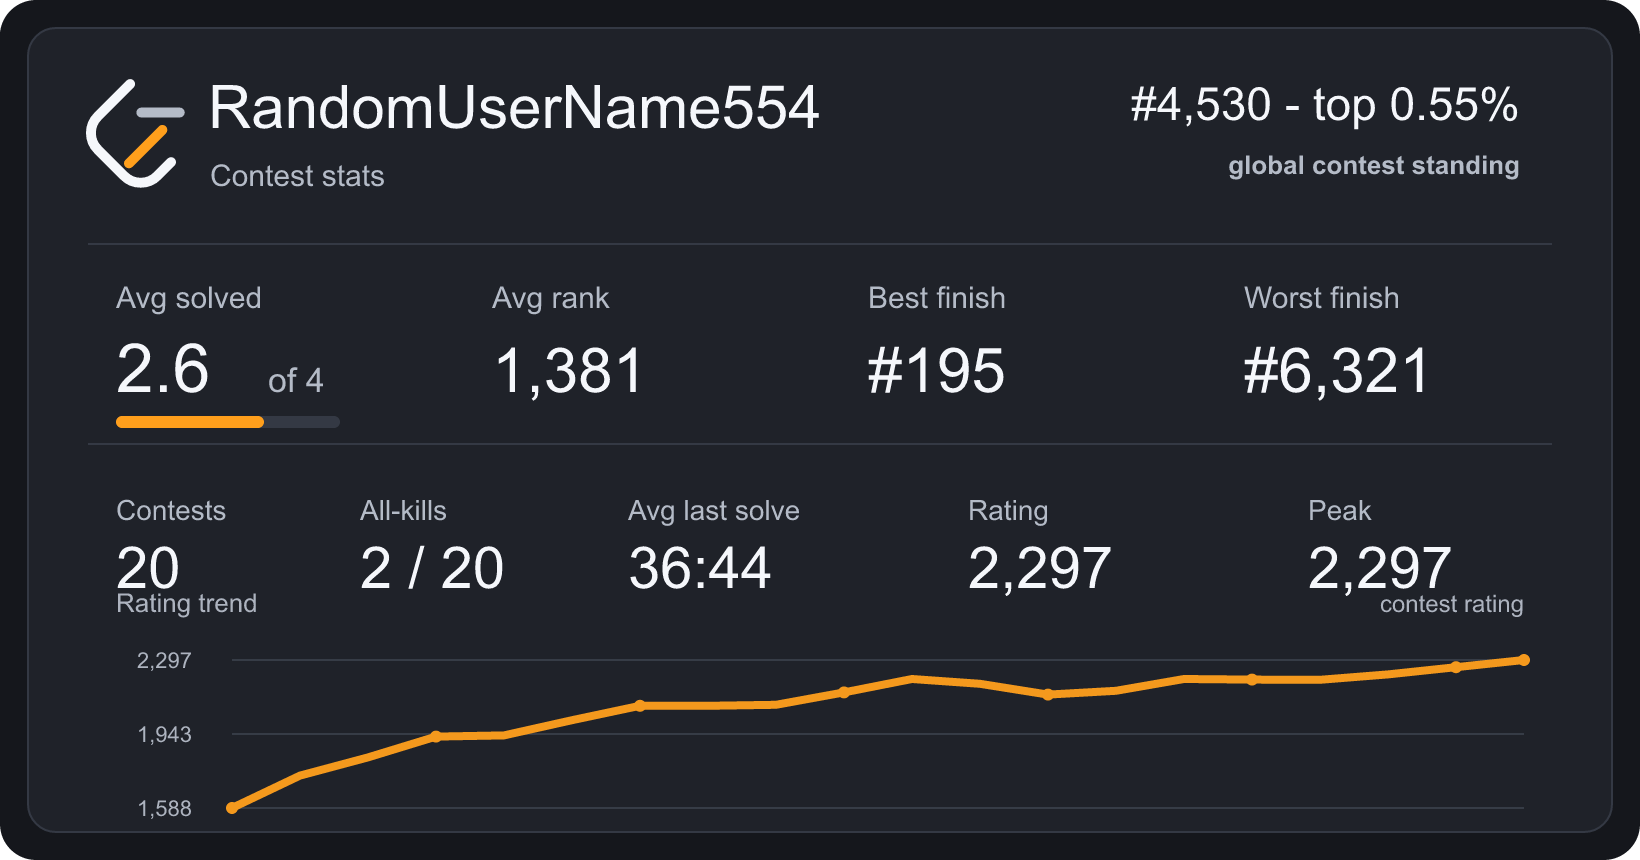
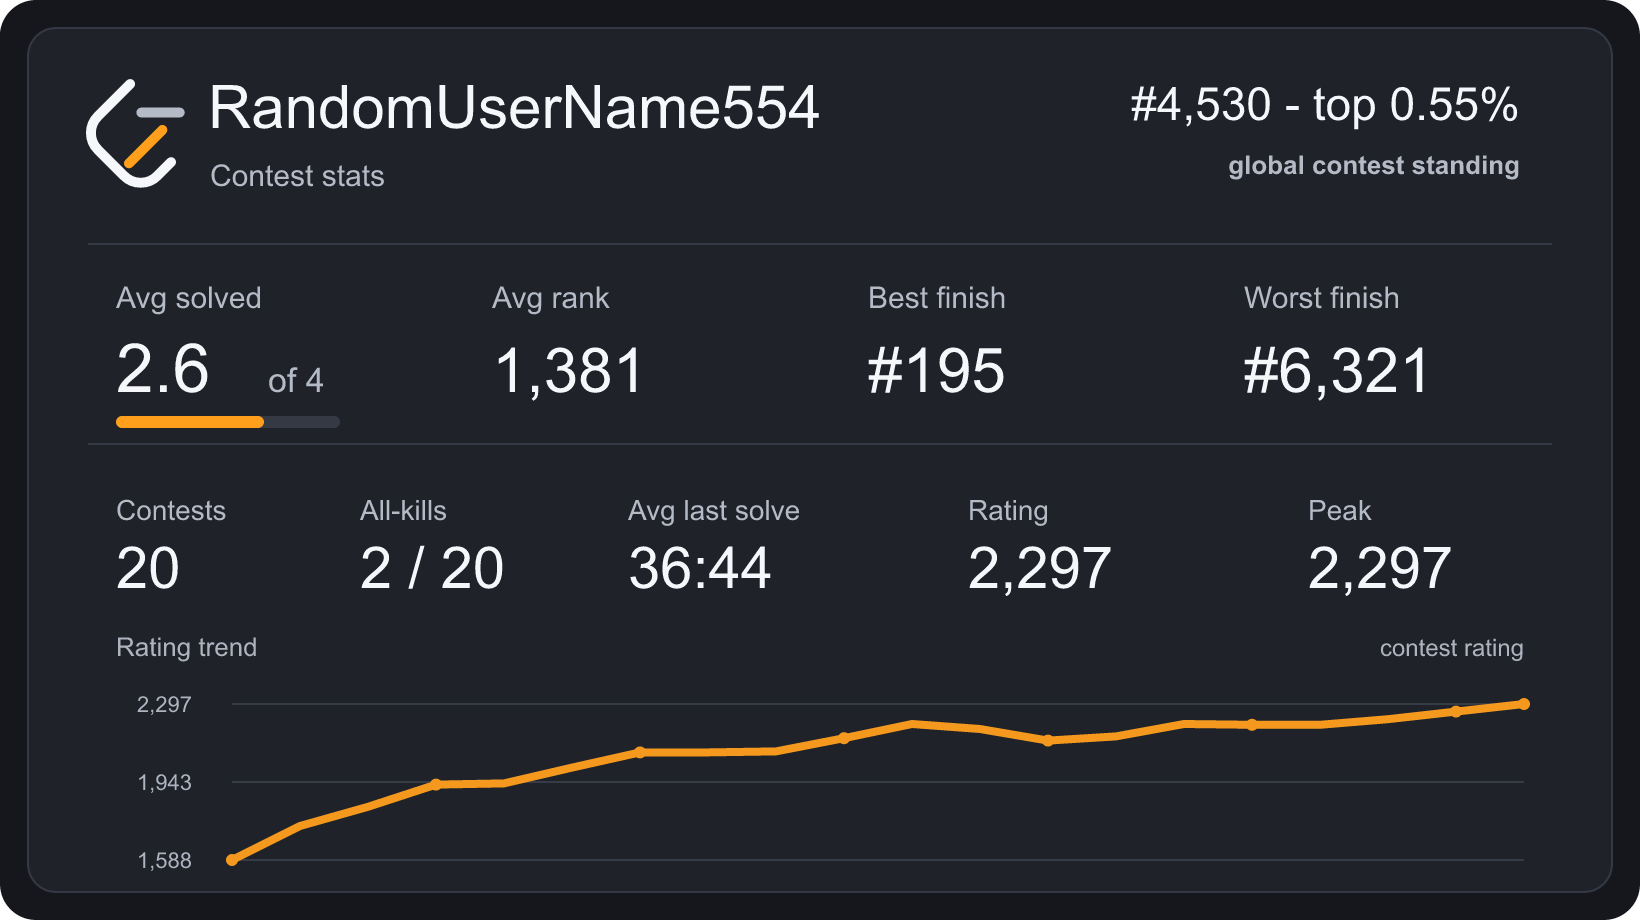
Fix remaining crowding between metric row and rating trend header
Measured actual text bounding boxes instead of eyeballing offsets:
the "Rating trend" header sat ~3px from the Rating/Peak values above
it. Grew the card height to give the bottom section proper room and
rebalanced the chart's vertical position so every section now has
15px+ of clearance.

diff --git a/src/renderSvg.js b/src/renderSvg.js
@@ -1,7 +1,7 @@
 import { formatDecimal, formatDuration, formatInteger, formatPercent } from './format.js';
 
 const CARD_WIDTH = 820;
-const CARD_HEIGHT = 430;
+const CARD_HEIGHT = 460;
 
 const THEMES = {
   dark: {
@@ -28,7 +28,7 @@ const THEMES = {
 
 export function renderContestEmblem(stats, { theme = 'dark' } = {}) {
   const colors = THEMES[theme] ?? THEMES.dark;
-  const chart = buildRatingChart(stats.contests, 116, 330, 646, 74, colors);
+  const chart = buildRatingChart(stats.contests, 116, 352, 646, 78, colors);
   const latest = stats.latestContest;
   const totalProblems = latest?.totalProblems ?? 4;
 
@@ -37,7 +37,7 @@ export function renderContestEmblem(stats, { theme = 'dark' } = {}) {
   <title id="title">${escapeXml(stats.username)} LeetCode contest emblem</title>
   <desc id="desc">Aggregate LeetCode contest stats including average solved, average rank, all-kills, average last solve time, best and worst finish, and rating trend.</desc>
   <rect width="${CARD_WIDTH}" height="${CARD_HEIGHT}" rx="18" fill="${colors.background}"/>
-  <rect x="14" y="14" width="792" height="402" rx="14" fill="${colors.panel}" stroke="${colors.stroke}"/>
+  <rect x="14" y="14" width="792" height="432" rx="14" fill="${colors.panel}" stroke="${colors.stroke}"/>
 
   <g transform="translate(44 42) scale(0.62)">
     <path d="M34 0 8 26a19 19 0 0 0 0 27l21 21a19 19 0 0 0 27 0l11-11" stroke="${colors.text}" stroke-width="8" stroke-linecap="round" stroke-linejoin="round"/>
@@ -66,8 +66,8 @@ export function renderContestEmblem(stats, { theme = 'dark' } = {}) {
   ${smallMetric(654, 260, 'Peak', formatInteger(stats.highestRating), colors)}
 
   <g opacity="0.95" transform="translate(0 0)">
-    <text x="58" y="306" fill="${colors.muted}" font-family="Inter, Arial, sans-serif" font-size="13" font-weight="750">Rating trend</text>
-    <text x="762" y="306" fill="${colors.muted}" font-family="Inter, Arial, sans-serif" font-size="12" font-weight="650" text-anchor="end">contest rating</text>
+    <text x="58" y="328" fill="${colors.muted}" font-family="Inter, Arial, sans-serif" font-size="13" font-weight="750">Rating trend</text>
+    <text x="762" y="328" fill="${colors.muted}" font-family="Inter, Arial, sans-serif" font-size="12" font-weight="650" text-anchor="end">contest rating</text>
     ${chartGrid(colors, chart)}
     ${chart.points ? `<polyline points="${chart.points}" fill="none" stroke="${colors.accent}" stroke-width="4" stroke-linecap="round" stroke-linejoin="round"/>` : ''}
     ${chart.circles}